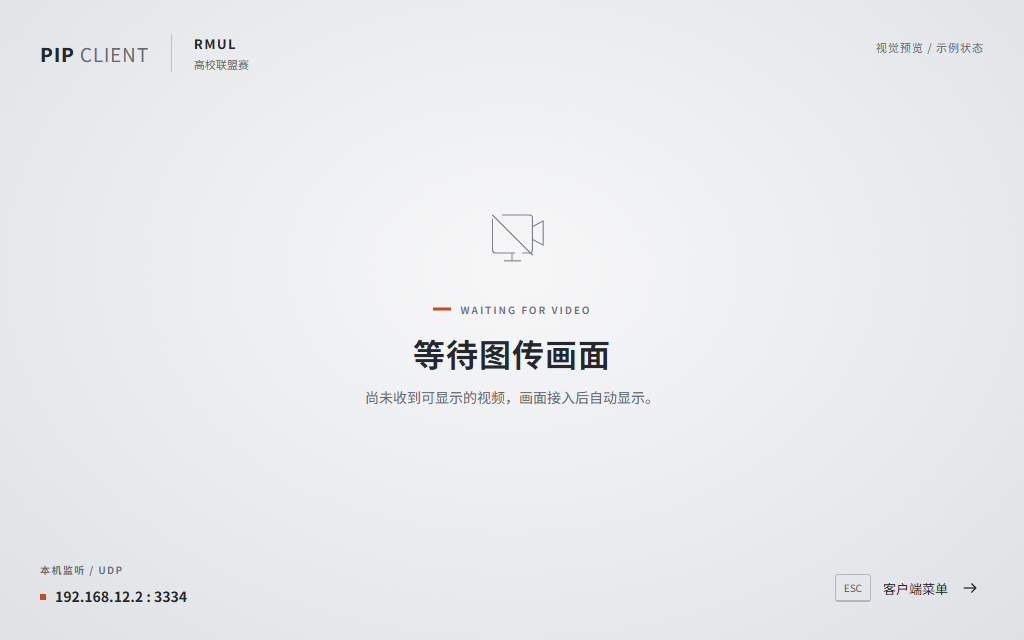
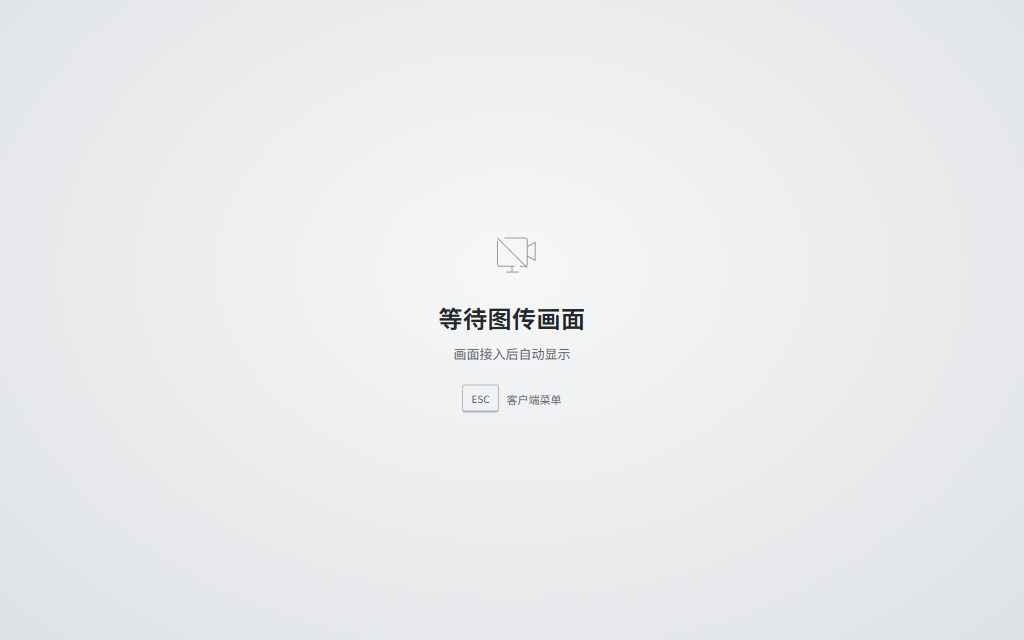
精简图传占位并独立业务 UI 叠层
删除主画面四角标识，中央仅保留视频状态和菜单入口。原型以同级业务层验证断流后持续绘制，并记录视频、数据新鲜度与身份切换各自的生命周期边界。

diff --git a/docs/design/rmul_prototype/index.html b/docs/design/rmul_prototype/index.html
@@ -17,28 +17,17 @@
         svg { display: block; width: 20px; height: 20px; fill: none; stroke: currentColor; stroke-width: 1.6; stroke-linecap: round; stroke-linejoin: round; }
         [hidden] { display: none !important; }
         .viewport { width: 100vw; height: 100vh; overflow: hidden; position: relative; font-size: calc(14px * var(--scale)); }
-        .waiting { position: absolute; inset: 0; background: radial-gradient(ellipse at 50% 42%, #f7f7f8 0%, #e9ebed 56%, #dfe2e5 100%); }
-        .masthead { position: absolute; top: 34px; left: 40px; display: flex; align-items: center; gap: 22px; }
-        .wordmark { font-size: 19px; font-weight: 800; letter-spacing: .8px; }
-        .wordmark span { font-weight: 400; color: #64686f; }
-        .masthead .mode { border-left: 1px solid #bfc3c9; padding-left: 22px; display: grid; gap: 3px; }
-        .mode strong { font-size: 13px; letter-spacing: 1.5px; }
-        .mode small { font-size: 11px; color: var(--muted); }
-        .preview-mark { position: absolute; right: 40px; top: 39px; font-size: 11px; color: #64686f; letter-spacing: 1px; }
-        .signal { position: absolute; left: 50%; top: 47%; transform: translate(-50%,-50%); text-align: center; min-width: 400px; }
-        .signal-icon { width: 78px; height: 78px; margin: 0 auto 28px; color: #7d828a; }
+        .video-layer { position: absolute; inset: 0; z-index: 0; background: radial-gradient(ellipse at 50% 42%, #f7f7f8 0%, #e9ebed 56%, #dfe2e5 100%); }
+        /* 业务叠层属于窗口坐标系；它与图传同级，视频停流或占位切换不影响其生命周期。 */
+        .business-overlay { position: absolute; inset: 0; z-index: 1; pointer-events: none; }
+        .signal { position: absolute; left: 50%; top: 50%; transform: translate(-50%,-50%); text-align: center; min-width: 400px; }
+        .signal-icon { width: 58px; height: 58px; margin: 0 auto 18px; color: #7d828a; }
         .signal-icon svg { width: 100%; height: 100%; stroke-width: 1.1; }
-        .signal-kicker { display: flex; justify-content: center; align-items: center; gap: 10px; color: #6c7078; font-size: 10px; letter-spacing: 2px; font-weight: 600; }
-        .signal-kicker::before { content: ""; width: 18px; height: 3px; background: var(--accent); }
-        .signal h1 { font-size: calc(32px * var(--scale)); line-height: 1.5; font-weight: 650; margin: 12px 0 10px; letter-spacing: 1px; }
-        .signal p { margin: 0; font-size: calc(14px * var(--scale)); color: var(--muted); }
-        .endpoint { position: absolute; left: 40px; bottom: 34px; display: grid; gap: 9px; }
-        .micro { font-size: 10px; letter-spacing: 1.4px; font-weight: 600; color: #656a72; }
-        .endpoint .address { font-size: calc(14px * var(--scale)); font-variant-numeric: tabular-nums; }
-        .endpoint .address span { display: inline-block; width: 6px; height: 6px; background: var(--accent); margin-right: 9px; vertical-align: 2px; }
-        .menu-hint { position: absolute; right: 40px; bottom: 34px; display: flex; align-items: center; gap: 12px; background: transparent; padding: 4px; font-size: calc(13px * var(--scale)); }
+        .signal h1 { font-size: calc(24px * var(--scale)); line-height: 1.5; font-weight: 650; margin: 0 0 8px; letter-spacing: .5px; }
+        .signal p { margin: 0; font-size: calc(13px * var(--scale)); color: var(--muted); }
+        .menu-hint { display: inline-flex; align-items: center; gap: 8px; margin-top: 18px; background: transparent; color: var(--muted); padding: 4px; font-size: calc(11px * var(--scale)); }
         kbd { font: 10px "Preview Sans",sans-serif; border: 1px solid #afb5bc; border-bottom-width: 2px; border-radius: 3px; padding: 5px 8px; color: #545962; }
-        .veil { position: absolute; inset: 0; background: #1d202742; display: grid; place-items: center; }
+        .veil { position: absolute; inset: 0; z-index: 2; background: #1d202742; display: grid; place-items: center; }
         .menu { width: min(1120px, calc(100vw - 96px)); height: min(740px, calc(100vh - 80px)); display: grid; grid-template-columns: calc(190px * var(--scale)) minmax(0,1fr); background: var(--surface); border: 1px solid #c3c7cc; border-radius: 5px; overflow: hidden; box-shadow: 0 16px 50px #22283116; }
         .sidebar { background: #edeef0; border-right: 1px solid var(--line); padding: 28px 14px 18px; display: flex; flex-direction: column; min-height: 0; }
         .sidebar-brand { padding: 0 12px 26px; }
@@ -118,13 +107,11 @@
         <symbol id="video-off" viewBox="0 0 80 80"><path d="M30 20h28a3 3 0 0 1 3 3v33a3 3 0 0 1-3 3h-7M20 24v32a3 3 0 0 0 3 3h20M20 20l41 41M32 67h17m-9-8v8"/><path d="m61 32 11-6v25l-11-6"/></symbol>
     </defs></svg>
     <main class="viewport">
-        <section class="waiting" aria-label="图传等待预览">
-            <header class="masthead"><div class="wordmark">PIP <span>CLIENT</span></div><div class="mode"><strong>RMUL</strong><small>高校联盟赛</small></div></header>
-            <div class="preview-mark">视觉预览 / 示例状态</div>
-            <div class="signal"><div class="signal-icon"><svg><use href="#video-off"/></svg></div><div class="signal-kicker" id="signal-kicker">WAITING FOR VIDEO</div><h1 id="signal-title">等待图传画面</h1><p id="signal-description">尚未收到可显示的视频，画面接入后自动显示。</p></div>
-            <div class="endpoint"><span class="micro">本机监听 / UDP</span><span class="address"><span></span><b id="endpoint">192.168.12.2 : 3334</b></span></div>
-            <button class="menu-hint" id="open-menu"><kbd>ESC</kbd><span>客户端菜单</span><svg><use href="#arrow"/></svg></button>
+        <section class="video-layer" id="video-layer" aria-label="图传层预览">
+            <div class="signal" id="video-placeholder"><div class="signal-icon"><svg><use href="#video-off"/></svg></div><h1 id="signal-title">等待图传画面</h1><p id="signal-description">画面接入后自动显示</p><button class="menu-hint" id="open-menu"><kbd>ESC</kbd><span>客户端菜单</span></button></div>
         </section>
+        <!-- 业务内容待设计。此层一直存在，不以图传状态决定可见性，也不缩放到视频像素坐标。 -->
+        <section class="business-overlay" id="business-overlay" aria-label="独立业务 UI 层"></section>
         <section class="veil" id="menu-layer" hidden aria-label="客户端菜单预览">
             <div class="menu" role="dialog" aria-modal="true" aria-labelledby="page-title">
                 <aside class="sidebar"><div class="sidebar-brand"><b>PIP CLIENT</b><p>RMUL / 客户端菜单</p></div>
@@ -224,12 +211,13 @@
             if (["ArrowLeft", "ArrowRight"].includes(event.key) && !event.target.closest("input,select,textarea,[contenteditable]")) { event.preventDefault(); toggleView(); }
         });
         const states = {
-            waiting: ["WAITING FOR VIDEO","等待图传画面","尚未收到可显示的视频，画面接入后自动显示。"],
-            paused: ["VIDEO PAUSED","图传接收已暂停","可在客户端菜单的图传设置中恢复接收。"],
-            lost: ["SIGNAL LOST","图传信号中断","正在等待新的画面，请检查发送端与接入链路。"],
-            error: ["INPUT ERROR","图传暂不可用","监听配置存在问题，请在客户端菜单查看详细原因。"]
+            waiting: ["等待图传画面","画面接入后自动显示"],
+            paused: ["图传接收已暂停","可在客户端菜单中恢复接收"],
+            lost: ["图传信号中断","等待画面恢复"],
+            error: ["图传暂不可用","请在客户端菜单查看详细原因"]
         };
-        element("preview-state").onchange = event => { const state = states[event.target.value]; ["signal-kicker","signal-title","signal-description"].forEach((id,index) => element(id).textContent = state[index]); };
+        // 仅更新视频层的占位；不得在这里隐藏业务层或清除业务数据。
+        element("preview-state").onchange = event => { const state = states[event.target.value]; ["signal-title","signal-description"].forEach((id,index) => element(id).textContent = state[index]); };
         element("preview-size").onchange = event => document.documentElement.style.setProperty("--scale",event.target.value);
         if (query.get("capture") === "1") element("prototype-tools").hidden = true;
         populateRobots("3");

diff --git a/docs/design/rmul_prototype/README.md b/docs/design/rmul_prototype/README.md
@@ -30,20 +30,44 @@ URL 增加 `&capture=1` 可以隐藏评审工具条。
 | 菜单 / 侧栏 | `#fafafa` / `#edeef0`；侧栏、分组和操作栏采用细分隔线 |
 | 控件 / 菜单圆角 | 3 / 5 逻辑像素 |
 | 字体 | 沿用已打包 Noto Sans SC 做版式预览；尚未确认赛事指定字体清单符合性 |
-| 标题 / 正文 | 会话标题 24、无信号标题 32、输入正文 14 逻辑像素，中档 |
+| 标题 / 正文 | 会话标题 24、无信号标题 24、输入正文 14 逻辑像素，中档 |
 | 菜单 | 最大宽 1120、高 740 逻辑像素；按视口收敛，字号不随窗口缩放 |
 | 阵营 / 状态 | 红蓝只用于身份；可用状态用绿色，其余状态配明确文字 |
 
-保持正常视频无常驻装饰、等比居中。无信号页只表达不可用原因，不模拟比赛实况。
+视频层保持等比居中，没有 Logo、模式名、端点或角落菜单常驻装饰；监听信息放入 ESC。
+无信号占位仅居中显示小图标、当前原因和菜单入口，不模拟比赛实况。未来业务 UI 是独立叠层，
+其存在不依赖是否收到视频；本轮仍未设计或加入血量、准星等具体业务元素。
 本原型未使用官方 Logo 或新 KV，不将设计颜色、几何或自绘图标称作官方标准。
 字体及素材证据边界见[来源审查](../rmul_visual_reference_audit.md)。
+
+## 图传与业务 UI 的独立性
+
+原型使用同级的 `video-layer` 与 `business-overlay`，ESC 菜单覆盖于两者上方。
+业务层按窗口坐标和 UI 档位布局，不作为视频纹理的一部分，也不随视频宽高比缩放。
+图传占位只负责当前视频状态，不能隐藏、重建业务层或清除其中的数据。
+
+后续正式实现遵守以下数据契约；它们是设计要求，本原型没有实际 MQTT 或业务状态模型。
+
+| 情况 | 图传层 | 业务 UI |
+| --- | --- | --- |
+| 仅视频中断，业务数据仍到达 | 显示无信号占位 | 保持绘制，继续更新业务数据 |
+| 业务数据源停止更新，视频仍正常 | 继续显示视频 | 保留该数据源的最后有效值，标记未更新；不伪造新数值 |
+| 两条链路都中断 | 显示无信号占位 | 保留最后有效值及未更新状态 |
+| 从未收到某字段 | 不影响图传 | 显示未知，不能用默认 0 冒充已收到的数据 |
+| 更换机器人身份或比赛会话 | 由新会话管理图传 | 旧身份数据失效，不作为新身份的最后值继续显示 |
+
+新鲜度应由各业务数据源的最后更新时间与接收状态判断，不能由视频状态推断。
+图传恢复只替换视频内容，不重置业务叠层。未来收到业务新数据才更新对应显示；
+不能把裁判系统业务数据或操作许可冻结规则与图传占位混在一起。
+当前正式 `DataPipeline` 的 MQTT 失联清理语义尚未改造；保留只读展示快照应在后续业务状态层实现，
+与控制发送、可操作状态和协议接收缓存分离。本轮不改变控制门控或后台链路。
 
 ## 预览与验证
 
 - `waiting_1280x720.png`、`session_1280x720.png`：720p 对照。
 - `waiting_1920x1080.png`、`session_1920x1080.png`：1080p 对照。
 - `waiting_1024x640.png`、`session_1024x640.png`：最小窗口检查，小窗口/大档允许内部滚动，底部操作常驻。
-- `validation.json`：字体加载、字号固定、水平溢出和交互检查记录。
+- `validation.json`：字体加载、字号固定、水平溢出和交互检查记录；四种图传状态下独立叠层夹具持续绘制且未被清除。
 
 复现截图需本地 Node.js、Playwright 和 Edge，执行 `node docs/design/rmul_prototype/render_preview.cjs`。
 可通过 `NODE_PATH` 提供现有 Playwright，`PREVIEW_BROWSER` 切换已安装的浏览器通道。
